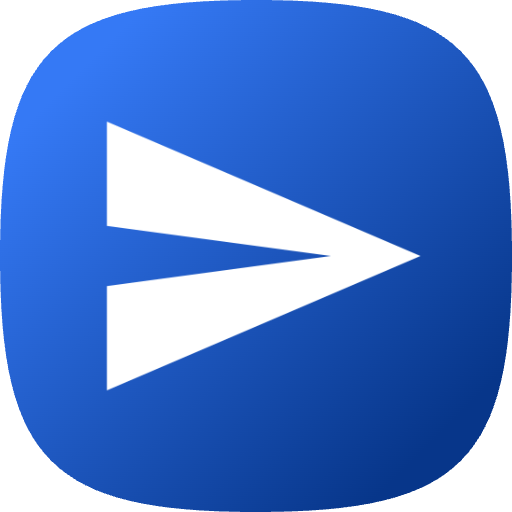
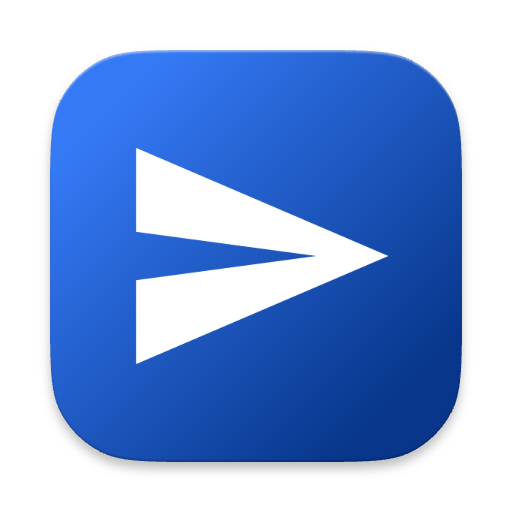
Change assets dir and make text smaller to cater for smaller devices

diff --git a/src/main.py b/src/main.py
@@ -73,7 +73,7 @@ def main(page: ft.Page):
         broadcaster.clear_discovered_devices()
 
         searching_progress_ring = ft.ProgressRing(color='#3478f5')
-        searching_text = ft.Text('Searching for available devices...', size=14)
+        searching_text = ft.Text('Searching for available devices...', size=12)
         searching_row = ft.Row(
             [
                 searching_progress_ring,
@@ -131,7 +131,7 @@ def main(page: ft.Page):
     
     send_button = ft.ElevatedButton('Send', icon='send_rounded', on_click=send)
     icon = ft.Image(
-        src='./icon.png',
+        src='./logo.png',
         width=100,
         height=100,
         fit=ft.ImageFit.CONTAIN,
